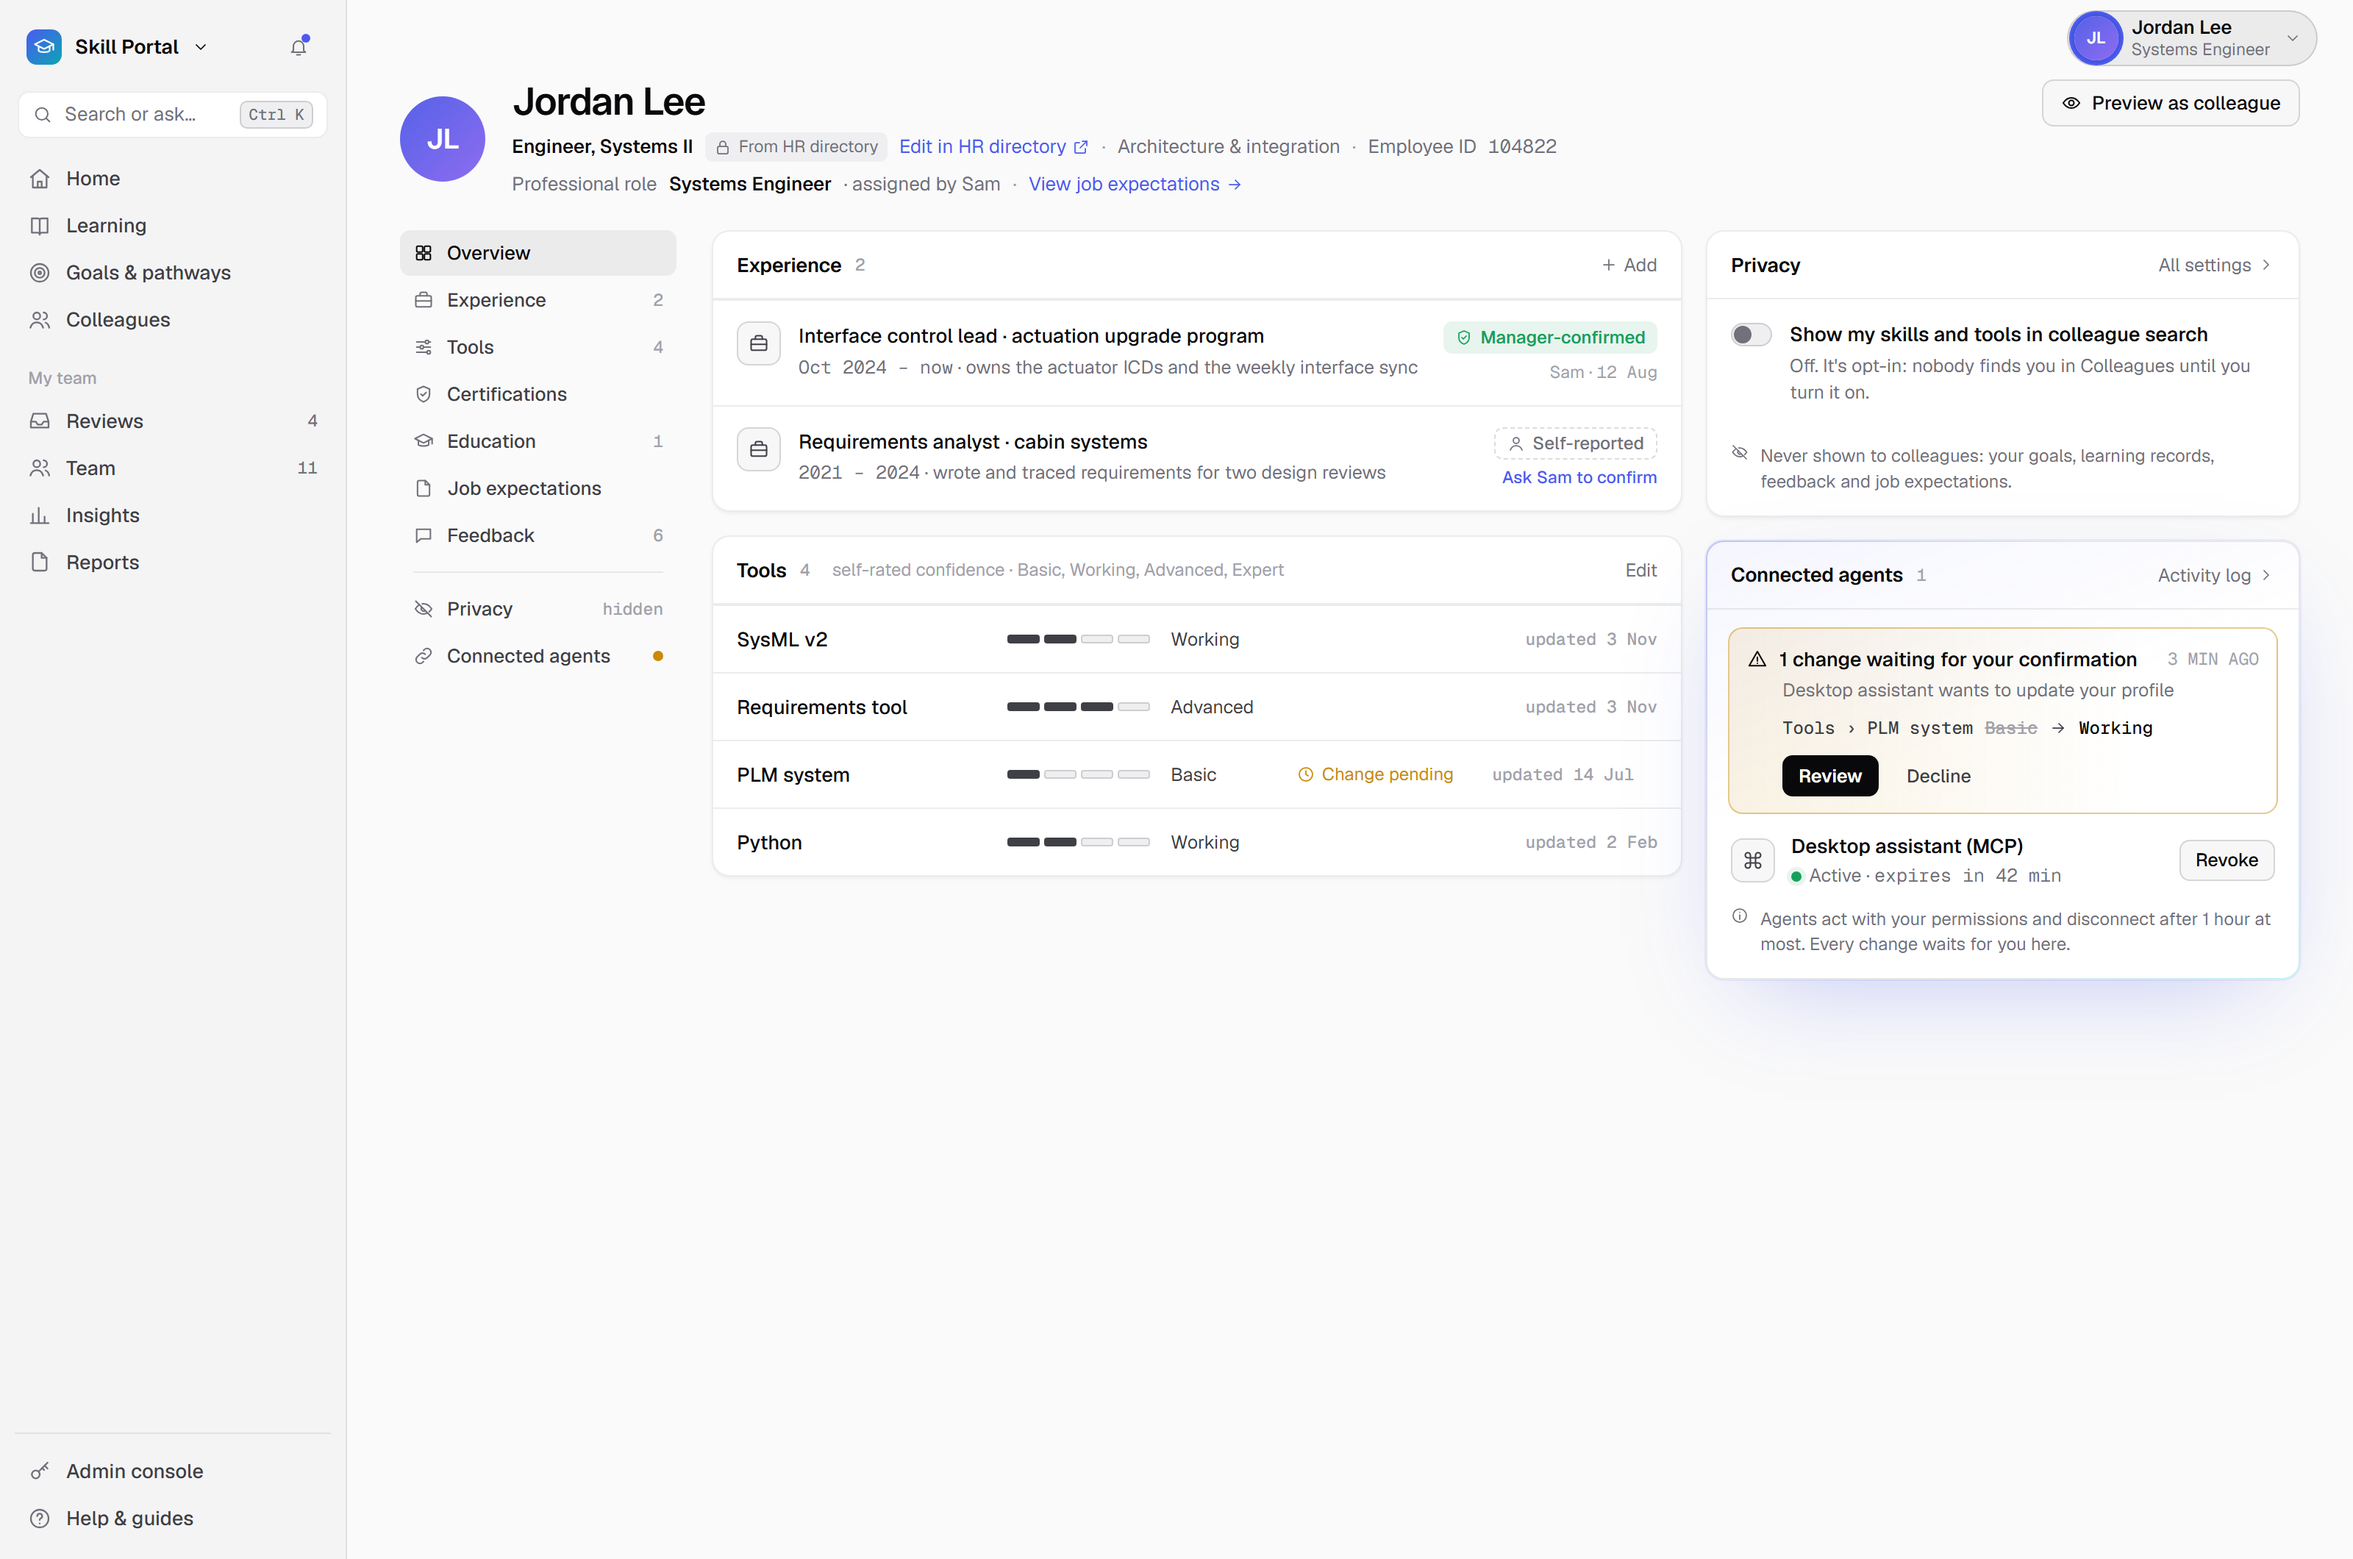
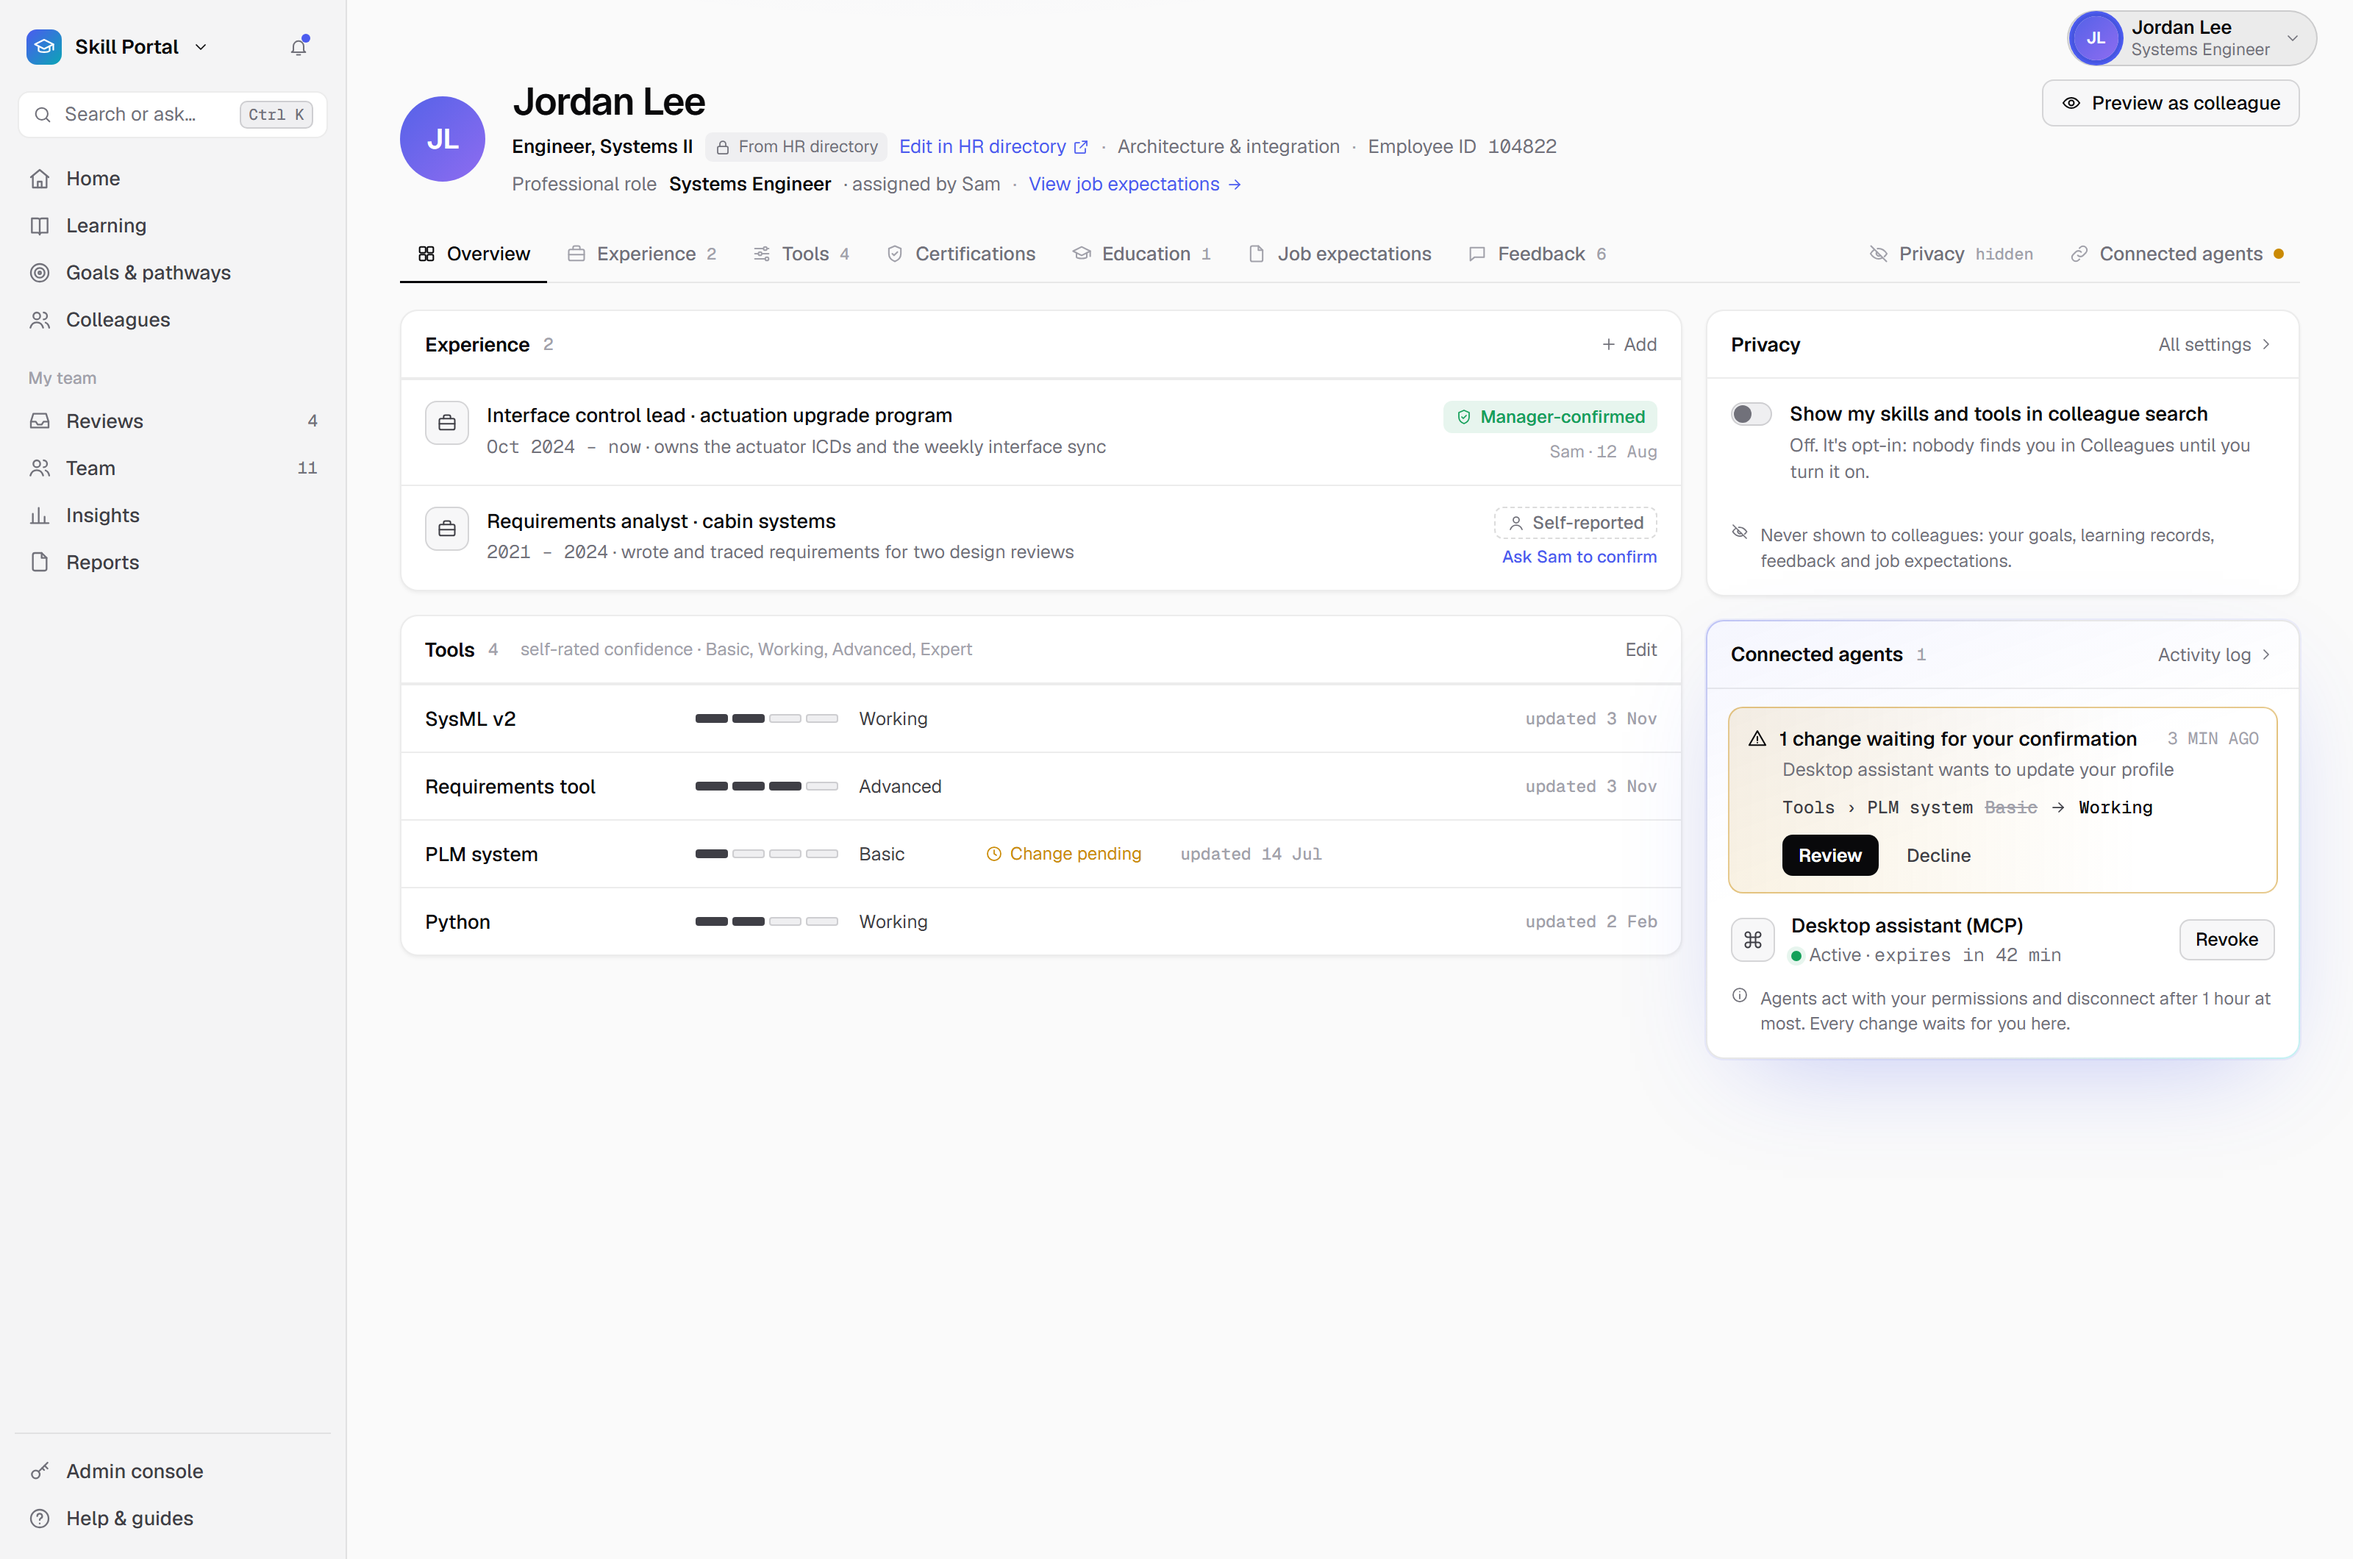
Profile: horizontal section tabs instead of a second vertical menu
The profile page had its own vertical section menu next to the app
sidebar (two link columns side by side). Sections are now one tab row
under the header: profile content on the left, Privacy and Connected
agents pushed right as settings. Panels get the full width.

diff --git a/design/html/07-profile.html b/design/html/07-profile.html
@@ -4,7 +4,7 @@
 .k{font:500 11px "Geist Mono",monospace;letter-spacing:.07em;color:var(--faint)}
 .acc{color:var(--accent-2)}[data-theme=light] .acc{color:var(--accent)}
 /* header */
-.idh{display:flex;align-items:center;gap:18px;margin-bottom:22px}
+.idh{display:flex;align-items:center;gap:18px;margin-bottom:18px}
 .avatar.xl{width:58px;height:58px;font-size:19px;letter-spacing:-.01em}
 .idl{display:flex;align-items:center;gap:8px;font-size:13px;color:var(--muted);margin-top:6px;white-space:nowrap}
 .idl b{color:var(--text);font-weight:550}
@@ -14,15 +14,16 @@
 .idl .sl{color:var(--faint)}
 .idh .acts{margin-left:auto;display:flex;gap:8px;align-items:center;align-self:flex-start}
 
-.lay{display:grid;grid-template-columns:188px minmax(0,1fr);gap:24px}
-.secnav{display:flex;flex-direction:column;gap:1px}
-.secnav a{display:flex;align-items:center;gap:9px;height:31px;padding:0 9px;border-radius:7px;color:var(--text-2);font-size:13px;font-weight:500}
-.secnav a .i{color:var(--muted)}
-.secnav a.on{background:var(--sel);color:var(--text)}
-.secnav a.on .i{color:var(--text)}
-.secnav .n{margin-left:auto;font:500 11.5px "Geist Mono",monospace;color:var(--faint)}
-.secnav .dot{margin-left:auto;width:7px;height:7px;border-radius:50%;background:var(--warn)}
-.secnav .sep{height:1px;background:var(--line);margin:8px 9px}
+/* profile sections: one horizontal tab row (profile content left, settings pushed right) */
+.ptabs{display:flex;align-items:stretch;gap:2px;border-bottom:1px solid var(--line);margin-bottom:18px}
+.ptabs a{display:flex;align-items:center;gap:7px;height:40px;padding:0 11px;margin-bottom:-1px;color:var(--muted);font-size:13px;font-weight:500;white-space:nowrap;text-decoration:none}
+.ptabs a .i{color:var(--faint)}
+.ptabs a.on{color:var(--text);box-shadow:inset 0 -1.5px 0 var(--text)}
+.ptabs a.on .i{color:var(--text)}
+.ptabs .n{font:500 11px "Geist Mono",monospace;color:var(--faint)}
+.ptabs a.on .n{color:var(--text-2)}
+.ptabs .dot{width:7px;height:7px;border-radius:50%;background:var(--warn)}
+.ptabs .push{margin-left:auto}
 
 .mn{display:flex;flex-direction:column;gap:16px;min-width:0}
 
@@ -78,19 +79,17 @@
     <div class="acts"><span class="btn"><i data-i="eye" data-c="sm"></i> Preview as colleague</span></div>
   </header>
 
-  <div class="lay">
-    <nav class="secnav">
-      <a class="on"><i data-i="grid" data-c="sm"></i>Overview</a>
-      <a><i data-i="brief" data-c="sm"></i>Experience<span class="n">2</span></a>
-      <a><i data-i="sliders" data-c="sm"></i>Tools<span class="n">4</span></a>
-      <a><i data-i="shield" data-c="sm"></i>Certifications</a>
-      <a><i data-i="cap" data-c="sm"></i>Education<span class="n">1</span></a>
-      <a><i data-i="file" data-c="sm"></i>Job expectations</a>
-      <a><i data-i="msg" data-c="sm"></i>Feedback<span class="n">6</span></a>
-      <div class="sep"></div>
-      <a><i data-i="eyeoff" data-c="sm"></i>Privacy<span class="n">hidden</span></a>
-      <a><i data-i="link" data-c="sm"></i>Connected agents<span class="dot"></span></a>
-    </nav>
+  <nav class="ptabs">
+    <a class="on"><i data-i="grid" data-c="sm"></i>Overview</a>
+    <a><i data-i="brief" data-c="sm"></i>Experience<span class="n">2</span></a>
+    <a><i data-i="sliders" data-c="sm"></i>Tools<span class="n">4</span></a>
+    <a><i data-i="shield" data-c="sm"></i>Certifications</a>
+    <a><i data-i="cap" data-c="sm"></i>Education<span class="n">1</span></a>
+    <a><i data-i="file" data-c="sm"></i>Job expectations</a>
+    <a><i data-i="msg" data-c="sm"></i>Feedback<span class="n">6</span></a>
+    <a class="push"><i data-i="eyeoff" data-c="sm"></i>Privacy<span class="n">hidden</span></a>
+    <a><i data-i="link" data-c="sm"></i>Connected agents<span class="dot"></span></a>
+  </nav>
 
     <div class="mn">
 
@@ -142,7 +141,6 @@
         </div>
       </div>
     </div>
-  </div>
 </main>
 <script src="assets/shell.js"></script>
 </body></html>

diff --git a/docs/SCREENS.md b/docs/SCREENS.md
@@ -66,7 +66,7 @@ Not a product screen. The learning loop, the navigation, six principles. Read it
 
 ### 07 · Profile: `07-profile`, route `/profile/<section>`
 - **Primary:** “Review” when an agent change waits; otherwise none.
-- **Layout:** header (name, HR-directory title read-only + link, manager-assigned role, job expectations); sub-nav; overview: Experience (manager-confirmed vs self-reported), Tools (self-rated), Privacy (opt-in toggle), Connected agents.
+- **Layout:** header (name, HR-directory title read-only + link, manager-assigned role, job expectations); horizontal section tabs (Overview · Experience · Tools · Certifications · Education · Job expectations · Feedback, with Privacy · Connected agents pushed right); overview: Experience (manager-confirmed vs self-reported), Tools (self-rated), Privacy (opt-in toggle), Connected agents.
 - **Accept:** “Not recorded” for missing data; directory visibility defaults OFF; HR-sourced fields read-only; “Preview as colleague” shows exactly what others see.
 
 ### 23 · Profile › Connected agents: `23-agent-confirm`, route `/profile/agents`
